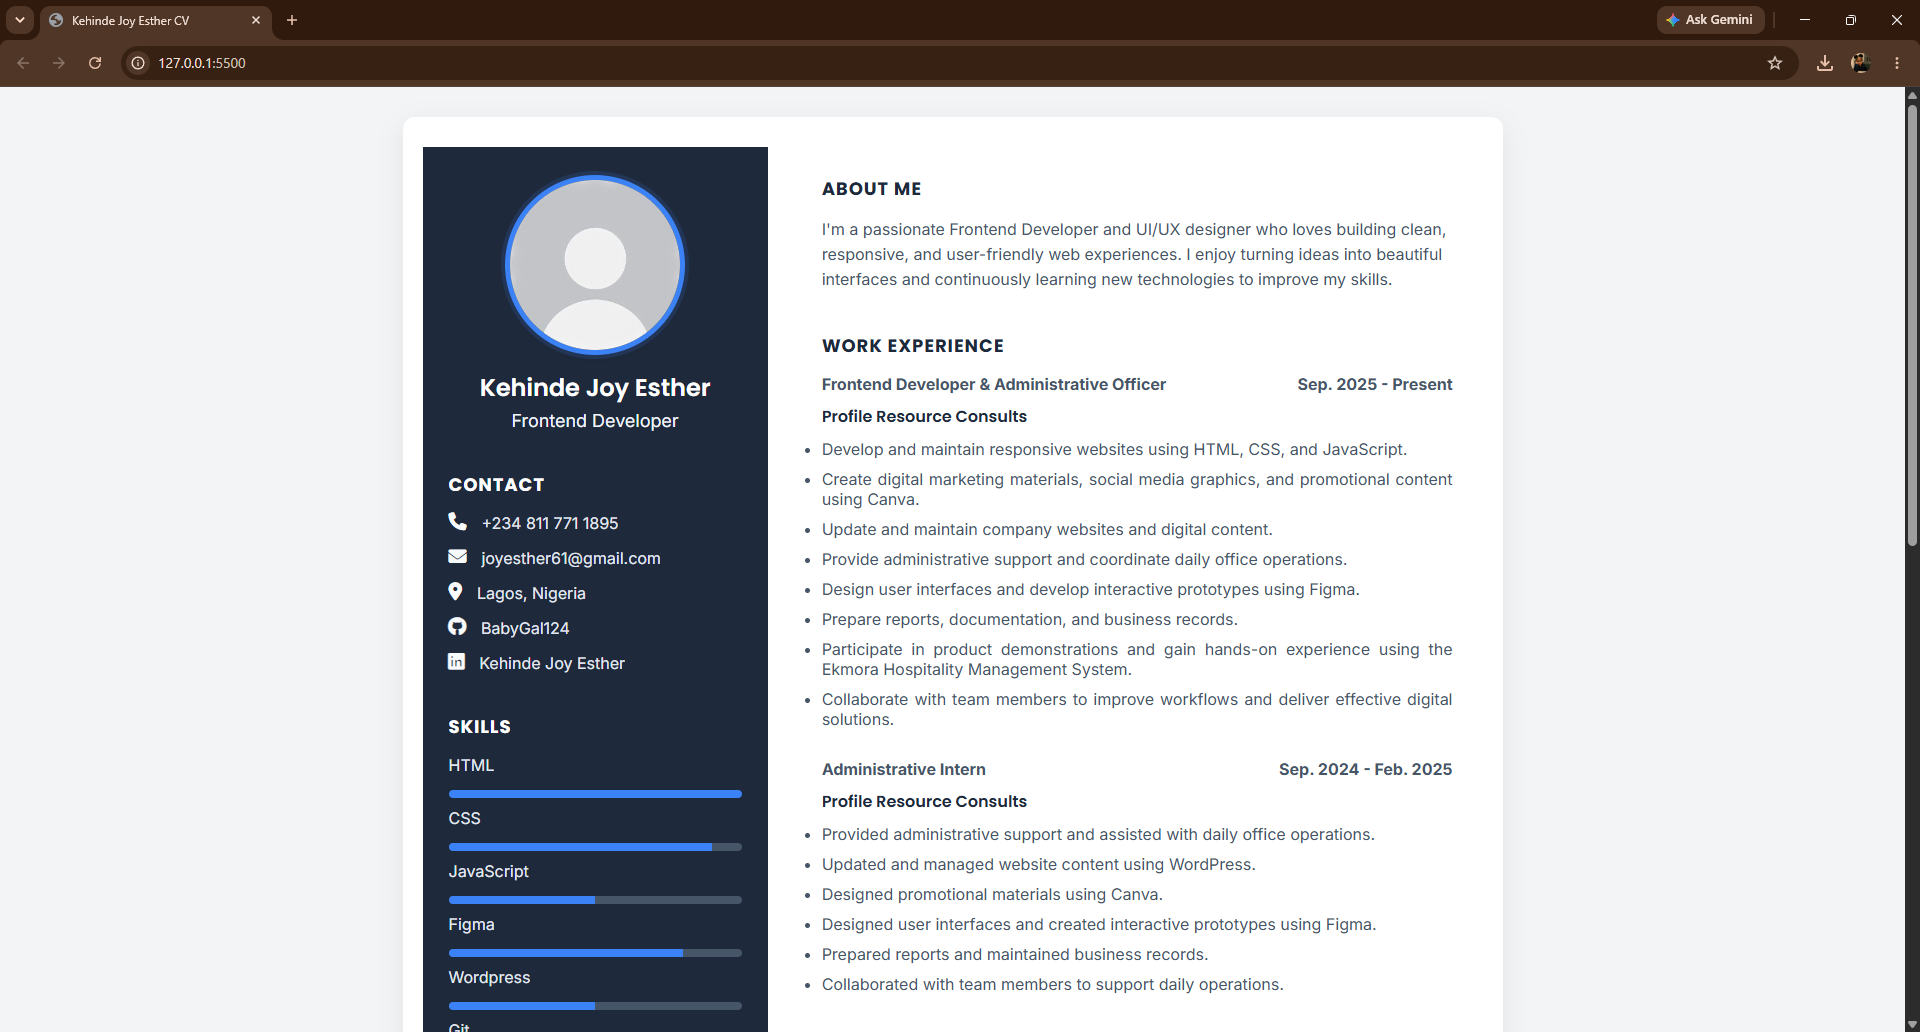
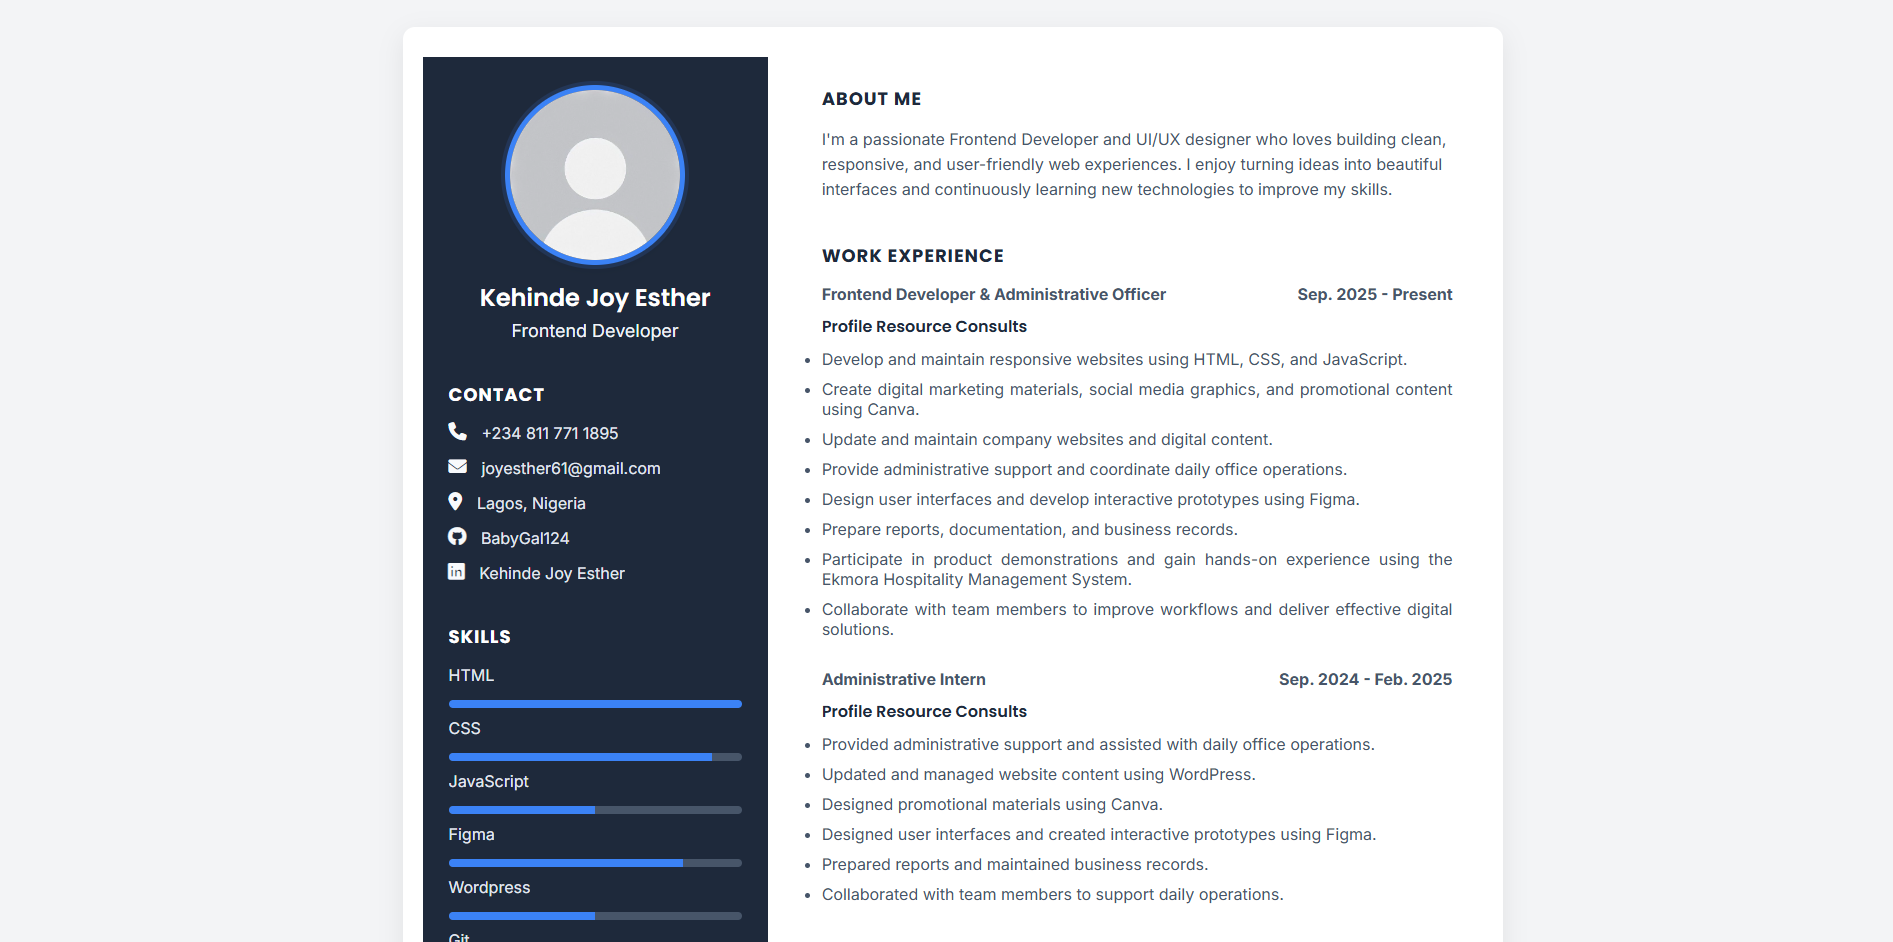
made it responsive

Changed region(s): [[0.0, 0.0, 1.0, 1.0], [0.6857, 0.3079, 0.7792, 0.3386]]

diff --git a/index.html b/index.html
@@ -24,7 +24,8 @@
     <header>
         <nav class="navbar section-content">
             <a href="./index.html" class="header-title">Esther <span>.</span></a>
-            <div class="nav-menu">
+            <div class="nav-menu" id="nav-menu">
+                   <button id="menu-close-button" aria-label="Close menu"><i class="fa-solid fa-xmark"></i></button>
                 <ul class="nav-list">
                     <li class="nav-item"> 
                         <a href="./index.html" class="nav-link">Home</a>
@@ -47,6 +48,7 @@
             </li>
                 </ul>
             </div>
+             <button id="menu-open-button" aria-label="Open menu"><i class="fa-solid fa-bars"></i></button>
         </nav>
     </header>
 
@@ -171,12 +173,12 @@
 
                 <div class="project-actions">
 
-                    <a href="#" class="project-btn">
+                    <a href="#" target="_blank" class="project-btn">
                         <i class="fa-solid fa-arrow-up-right-from-square"></i>
                         Live Demo
                     </a>
 
-                    <a href="https://github.com/BabyGal124/Esther-Portfolio-Website" class="project-btn">
+                    <a href="https://github.com/BabyGal124/Esther-Portfolio-Website" target="_blank"  class="project-btn">
                         <i class="fa-brands fa-github"></i>
                         Source Code
                     </a>
@@ -224,12 +226,12 @@
 
                     <div class="project-actions">
 
-                        <a href="https://goldiebeautylounge.vercel.app/" class="project-btn">
+                        <a href="https://goldiebeautylounge.vercel.app/" target="_blank" class="project-btn">
                             <i class="fa-solid fa-arrow-up-right-from-square"></i>
                             Live Demo
                         </a>
 
-                        <a href="https://github.com/BabyGal124/Goldie-Beauty-Lounge" class="project-btn">
+                        <a href="https://github.com/BabyGal124/Goldie-Beauty-Lounge" target="_blank" class="project-btn">
                             <i class="fa-brands fa-github"></i>
                             Source Code
                         </a>
@@ -246,7 +248,7 @@
             <article class="project-card">
 
                 <figure class="project-image">
-                    <img src="./images/screenshot.png" alt="Wanderly">
+                    <img src="./images/wanderly.png" alt="Wanderly">
                 </figure>
 
                 <div class="project-content">
@@ -271,12 +273,12 @@
 
                     <div class="project-actions">
 
-                        <a href="#" class="project-btn">
+                        <a href="https://babygal124.github.io/Wandelry-Landing-Page/" target="_blank" class="project-btn">
                             <i class="fa-solid fa-arrow-up-right-from-square"></i>
                             Live Demo
                         </a>
 
-                        <a href="https://github.com/BabyGal124/Wandelry-Landing-Page" class="project-btn">
+                        <a href="https://github.com/BabyGal124/Wandelry-Landing-Page"target="_blank" class="project-btn">
                             <i class="fa-brands fa-github"></i>
                             Source Code
                         </a>
@@ -318,12 +320,12 @@
 
                     <div class="project-actions">
 
-                        <a href="https://kehindejoyesther-cv.vercel.app/" class="project-btn">
+                        <a href="https://kehindejoyesther-cv.vercel.app/" target="_blank" class="project-btn">
                             <i class="fa-solid fa-arrow-up-right-from-square"></i>
                             Live Demo
                         </a>
 
-                        <a href="https://github.com/BabyGal124/Esther-CV" class="project-btn">
+                        <a href="https://github.com/BabyGal124/Esther-CV" target="_blank" class="project-btn">
                             <i class="fa-brands fa-github"></i>
                             Source Code
                         </a>
@@ -339,7 +341,6 @@
     </div>
 
 </section>
-
 
         <!--  Skills Section-->
 <section class="skills-section" id="skills">

diff --git a/style.css b/style.css
@@ -173,12 +173,38 @@ header .navbar{
     background-color: var(--accent-hover);
     transform: translateY(-2px);
 }
+
+#menu-open-button,
+#menu-close-button {
+    display: none;
+}
 .nav-link.active{
     color: var(--accent-color);
 }
 
 .nav-link.active::after{
     width: 100%;
+}
+
+/*Hamburger & Close Button Styling */
+#menu-open-button{
+    display: none;
+    font-size: 1.6rem;
+    color: var(--dark-color);
+    background: none;
+    border: none;
+    cursor: pointer;
+    padding: 10px 15px;
+}
+#menu-close-button{
+    display:none;
+    font-size: 1.6rem;
+    color: var(--dark-color);
+    background: none;
+    border: none;
+    cursor: pointer;
+    align-self: flex-end;
+
 }
 
 /*Hero Section Styling */
@@ -952,7 +978,110 @@ header .navbar{
 
 
 /* ── Media Queries ── */
-@media (max-width: 768px) {
+@media screen and (max-width: 900px){
+    #menu-open-button {
+        display: flex;
+        align-items: center;
+        justify-content: center;
+        font-size: 1.5rem;
+        color: var(--text-primary);
+        background: none;
+        border: none;
+        cursor: pointer;
+        padding: 0.4rem;
+    }
+
+    .navbar .nav-menu {
+        display: none;
+        position: fixed;
+        top: 0;
+        right: 0;
+        width: 30vw;
+        height: 100vh;
+        background-color: var(--bg-secondary);
+        flex-direction: column;
+        align-items: flex-start;
+        gap: 0.5rem;
+        z-index: 999;
+        border-left: 1px solid var(--border-color);
+        padding: 2rem;
+        box-shadow: -8px 0 32px rgba(0, 0, 0, 0.4);
+    }
+
+    .navbar .nav-menu.open {
+        display: flex;
+    }
+
+    #menu-close-button {
+        display: flex;
+        align-items: center;
+        justify-content: center;
+        position: absolute;
+        top: 1.25rem;
+        right: 1.25rem;
+        font-size: 1.2rem;
+        color: var(--text-secondary);
+        background: none;
+        border: none;
+        cursor: pointer;
+        padding: 0.4rem;
+        transition: color 0.2s ease;
+    }
+
+    #menu-close-button:hover {
+        color: var(--accent-color);
+    }
+
+    .nav-menu .nav-list {
+        display: flex;
+        flex-direction: column;
+        align-items: flex-start;
+        gap: 0.25rem;
+        width: 100%;
+    }
+
+    .nav-menu .nav-list .nav-item {
+        width: 100%;
+        border-bottom: 1px solid var(--border-color);
+    }
+
+    .nav-menu .nav-list .nav-item:last-child {
+        border-bottom: none;
+    }
+
+    .nav-menu .nav-list .nav-link {
+        display: inline-block;
+        padding: 0.75rem 0;
+        font-size: var(--font-size-md);
+        font-weight: var(--font-weight-medium);
+        color: var(--text-secondary);
+        width: auto;
+        transition: color 0.2s ease, padding-left 0.2s ease;
+    }
+
+    /* hide the global underline pseudo-element inside sidebar */
+    .nav-menu .nav-list .nav-link::after {
+        display: none;
+    }
+
+    .nav-menu .nav-list .nav-link:hover,
+    .nav-menu .nav-list .nav-link.active {
+        color: var(--accent-color);
+        padding-left: 0.5rem;
+    }
+
+    .nav-menu .nav-list .nav-item:last-child .nav-link {
+        border-bottom: none;
+    }
+
+    .nav-menu .nav-list .nav-button {
+        margin-top: 1.5rem;
+        width: 100%;
+        text-align: center;
+        padding: 0.85rem;
+    }
+}
+@media screen and  (max-width: 768px) {
     /* Hero */
     .hero-container {
         flex-direction: column-reverse;

diff --git a/script.js b/script.js
@@ -79,6 +79,19 @@ const observer = new IntersectionObserver((entries) => {
 observer.observe(aboutSection);
 
 
+// Mobile nav toggle
+const menuOpenBtn = document.getElementById('menu-open-button');
+const menuCloseBtn = document.getElementById('menu-close-button');
+const navMenu = document.getElementById('nav-menu');
+
+menuOpenBtn.addEventListener('click', () => navMenu.classList.add('open'));
+menuCloseBtn.addEventListener('click', () => navMenu.classList.remove('open'));
+
+// Close menu when a nav link is clicked
+navMenu.querySelectorAll('.nav-link, .nav-button').forEach(link => {
+    link.addEventListener('click', () => navMenu.classList.remove('open'));
+});
+
 // Scroll spy — active nav link
 const sections = document.querySelectorAll('section[id]');
 const navLinks = document.querySelectorAll('.nav-link');
@@ -147,3 +160,4 @@ form.addEventListener("submit", async function (event) {
         btnText.textContent = "Send Message";
     }
 })
+
